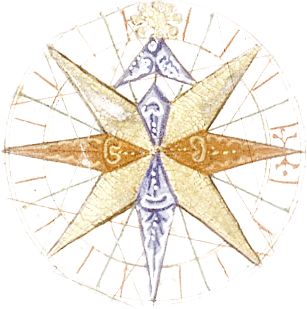
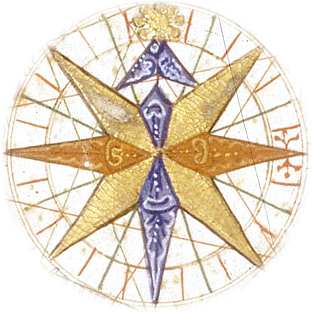
feat(packs): the Catalan Atlas rose as a patch, its edge feathered, no erase boxes (#111)

diff --git a/docs/catalan-rose/README.md b/docs/catalan-rose/README.md
@@ -1,0 +1,25 @@
+# The Catalan Atlas rose as a patch (#111)
+
+`rose-catalan` of the `scanned` pack, re-keyed from ink coverage to a patch. The scan is
+[Compass_rose_from_Catalan_Atlas_(1375).jpg](https://upload.wikimedia.org/wikipedia/commons/d/d2/Compass_rose_from_Catalan_Atlas_%281375%29.jpg)
+(Cresques Abraham, BnF Gallica; 570 x 618, public domain); crop (120,185)-(440,505).
+
+![raw, key, cut on parchment at 1:1, cut at map width](steps.png)
+
+`steps.png`, left to right: the raw crop; the key (white where the sprite is opaque); the cut multiplied onto
+parchment at 1:1; the cut at the width the map draws it (110 px). `rose-catalan.raw.png`, `.key.png` and `.cut.png`
+are the three images behind it.
+
+It was cut by ink coverage, which dropped the vellum between the rhumbs and thinned the blue, ochre and gilt
+washes. Now the whole disc inside the ring is the sprite, its paper (`#e9dfcf`, the vellum's own) divided out so the
+renderer's multiply sinks it into the parchment.
+
+**Edge: a heavier feather, not erase boxes.** The ring is the only outline (a circle at its outer edge) and its blur is
+4 px instead of 2 (`circleFeather`). Nothing is erased, so no pale hole is left where lettering was; the lettering and
+waves outside the ring are cut by the circle, and its feather fades them out rather than ending them on a line.
+A colour mask was not needed: the ring itself separates subject from surround.
+
+| in the raw | absent from the sprite | why |
+|---|---|---|
+| the sea's blue waves round the ring | all of it | surround, outside the subject's ring |
+| lettering of the neighbouring winds at three corners | all of it | lettering, outside the ring |

diff --git a/docs/carta-marina/README.md b/docs/carta-marina/README.md
@@ -76,5 +76,5 @@ The crop of each sprite is `source.crop` in its `pack.json`. In the raw, absent 
 
 The tiny boat under ship-b's hull stays: it is part of its water.
 
-Still cut by ink, to follow: the roses, cartouche, palms, scale, Aguiar towns, Paré monsters and
+Still cut by ink, to follow: the Aguiar roses, cartouche, palms, scale, Aguiar towns, Paré monsters and
 Master W ships (`docs/towns-aguiar` for the towns).
